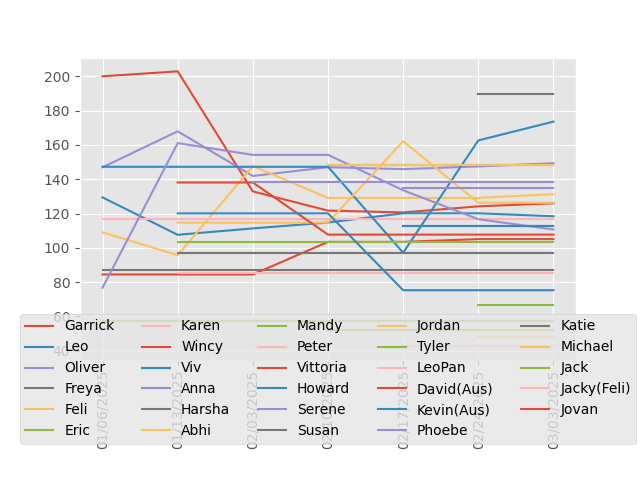
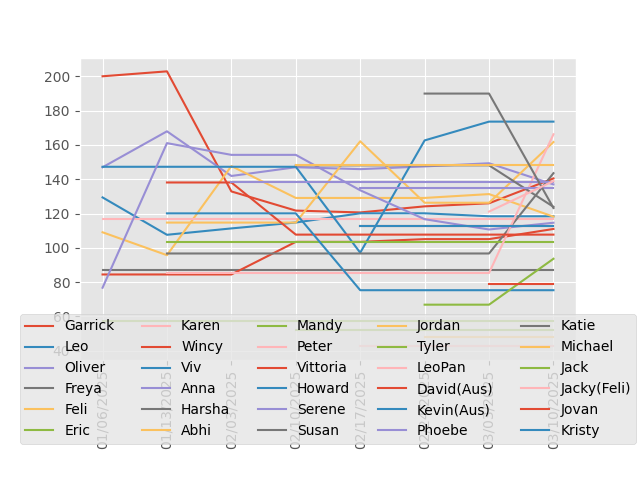
update rankings

diff --git a/README.md b/README.md
@@ -6,31 +6,32 @@
 
 | Player | ELO | Wins | Losses | Win % |
 | --- | --- | --- | --- | --- |
-| Katie | 190.00 | 3 | 0 | 100% |
 | Viv | 173.63 | 7 | 2 | 78% |
-| Oliver | 149.33 | 13 | 8 | 62% |
-| Susan | 148.12 | 1 | 0 | 100% |
+| Peter | 166.25 | 3 | 3 | 50% |
+| Abhi | 161.71 | 5 | 4 | 56% |
 | Jordan | 148.12 | 1 | 0 | 100% |
+| Harsha | 143.54 | 3 | 2 | 60% |
+| Garrick | 140.47 | 15 | 10 | 60% |
+| Jacky(Feli) | 138.90 | 3 | 1 | 75% |
 | Serene | 138.15 | 1 | 3 | 25% |
+| Oliver | 136.98 | 14 | 12 | 54% |
 | Phoebe | 135.05 | 1 | 1 | 50% |
-| Feli | 131.34 | 6 | 8 | 43% |
-| Abhi | 126.29 | 4 | 4 | 50% |
-| Garrick | 125.97 | 12 | 9 | 57% |
-| Jacky(Feli) | 121.11 | 1 | 0 | 100% |
+| Susan | 123.90 | 1 | 2 | 33% |
+| Katie | 123.22 | 4 | 4 | 50% |
 | Leo | 118.39 | 6 | 11 | 35% |
+| Feli | 118.18 | 6 | 13 | 32% |
 | Karen | 116.92 | 2 | 2 | 50% |
+| Anna | 114.62 | 7 | 9 | 44% |
 | David(Aus) | 112.63 | 1 | 2 | 33% |
 | Kevin(Aus) | 112.63 | 1 | 2 | 33% |
-| Anna | 110.67 | 5 | 7 | 42% |
+| Wincy | 110.99 | 4 | 6 | 40% |
 | Vittoria | 107.68 | 2 | 3 | 40% |
-| Wincy | 105.06 | 2 | 4 | 33% |
 | Mandy | 103.33 | 2 | 2 | 50% |
-| Harsha | 96.67 | 2 | 2 | 50% |
+| Kristy | 100.67 | 0 | 5 | 0% |
+| Jack | 93.59 | 2 | 5 | 29% |
 | Freya | 87.23 | 0 | 2 | 0% |
-| Peter | 85.29 | 1 | 2 | 33% |
 | Jovan | 78.89 | 0 | 1 | 0% |
 | Howard | 75.24 | 3 | 4 | 43% |
-| Jack | 66.80 | 1 | 2 | 33% |
 | Eric | 57.54 | 0 | 4 | 0% |
 | Tyler | 51.88 | 0 | 1 | 0% |
 | Michael | 48.07 | 0 | 3 | 0% |
@@ -66,24 +67,26 @@
 
 | Player | ELO | Wins | Losses | Win % |
 | --- | --- | --- | --- | --- |
-| Oliver | 233.72 | 7 | 0 | 100% |
+| Oliver | 208.45 | 7 | 1 | 88% |
+| Garrick | 181.11 | 6 | 2 | 75% |
 | Viv | 156.40 | 4 | 1 | 80% |
-| Garrick | 155.83 | 5 | 2 | 71% |
 | Karen | 143.48 | 2 | 0 | 100% |
-| Katie | 139.52 | 2 | 0 | 100% |
+| Wincy | 126.21 | 3 | 2 | 60% |
 | Vittoria | 124.87 | 1 | 0 | 100% |
 | Abhi | 111.28 | 2 | 2 | 50% |
-| Feli | 104.55 | 2 | 2 | 50% |
-| Jack | 104.49 | 1 | 1 | 50% |
+| Peter | 109.79 | 1 | 1 | 50% |
+| Katie | 107.21 | 2 | 1 | 67% |
 | Harsha | 102.83 | 1 | 1 | 50% |
-| Wincy | 97.19 | 2 | 2 | 50% |
+| Anna | 99.98 | 3 | 4 | 43% |
 | Mandy | 97.17 | 1 | 1 | 50% |
 | Howard | 82.35 | 1 | 2 | 33% |
 | Kevin(Aus) | 76.86 | 0 | 1 | 0% |
 | David(Aus) | 76.86 | 0 | 1 | 0% |
 | LeoPan | 76.86 | 0 | 1 | 0% |
-| Peter | 75.13 | 0 | 1 | 0% |
-| Anna | 73.49 | 2 | 4 | 33% |
+| Feli | 75.38 | 2 | 3 | 40% |
+| Jack | 72.18 | 1 | 2 | 33% |
+| Susan | 63.28 | 0 | 1 | 0% |
+| Kristy | 63.28 | 0 | 1 | 0% |
 | Michael | 60.48 | 0 | 2 | 0% |
 | Eric | 56.52 | 0 | 2 | 0% |
 | Leo | 55.14 | 1 | 3 | 25% |
@@ -93,22 +96,27 @@
 
 | Player | ELO | Wins | Losses | Win % |
 | --- | --- | --- | --- | --- |
+| Jacky(Feli) | 153.28 | 2 | 0 | 100% |
+| Abhi | 128.72 | 3 | 2 | 60% |
 | David(Aus) | 120.62 | 1 | 1 | 50% |
 | Kevin(Aus) | 120.62 | 1 | 1 | 50% |
 | Phoebe | 120.62 | 1 | 1 | 50% |
-| Anna | 119.92 | 2 | 1 | 67% |
+| Anna | 118.01 | 3 | 2 | 60% |
+| Harsha | 112.92 | 2 | 1 | 67% |
 | Mandy | 111.59 | 1 | 1 | 50% |
-| Peter | 111.59 | 1 | 1 | 50% |
 | Vittoria | 111.59 | 1 | 1 | 50% |
 | Leo | 106.74 | 2 | 2 | 50% |
-| Abhi | 106.74 | 2 | 2 | 50% |
+| Jack | 102.58 | 1 | 1 | 50% |
+| Wincy | 97.42 | 1 | 1 | 50% |
+| Katie | 97.42 | 1 | 1 | 50% |
+| Garrick | 95.02 | 3 | 3 | 50% |
 | Howard | 93.26 | 2 | 2 | 50% |
-| Garrick | 93.26 | 2 | 2 | 50% |
-| Harsha | 88.41 | 1 | 1 | 50% |
-| Feli | 88.41 | 1 | 1 | 50% |
+| Peter | 87.08 | 1 | 2 | 33% |
 | LeoPan | 79.38 | 1 | 1 | 50% |
 | Viv | 79.38 | 1 | 1 | 50% |
-| Oliver | 70.08 | 2 | 2 | 50% |
+| Oliver | 71.84 | 3 | 3 | 50% |
+| Kristy | 46.72 | 0 | 2 | 0% |
+| Feli | 41.48 | 1 | 3 | 25% |
 
 
 ### Monopoly Deal
@@ -127,11 +135,15 @@
 | Player | ELO | Wins | Losses | Win % |
 | --- | --- | --- | --- | --- |
 | Anna | 165.15 | 1 | 0 | 100% |
-| Oliver | 86.97 | 0 | 1 | 0% |
+| Peter | 163.51 | 1 | 0 | 100% |
 | Serene | 86.97 | 0 | 1 | 0% |
 | Garrick | 86.97 | 0 | 1 | 0% |
 | Leo | 86.97 | 0 | 1 | 0% |
-| Feli | 86.97 | 0 | 1 | 0% |
+| Kristy | 85.11 | 0 | 1 | 0% |
+| Katie | 85.11 | 0 | 1 | 0% |
+| Susan | 85.11 | 0 | 1 | 0% |
+| Oliver | 83.74 | 0 | 2 | 0% |
+| Feli | 83.74 | 0 | 2 | 0% |
 
 
 ### Avalon
@@ -156,9 +168,14 @@
 
 | Player | ELO | Wins | Losses | Win % |
 | --- | --- | --- | --- | --- |
-| Oliver | 165.15 | 1 | 0 | 100% |
-| Wincy | 86.97 | 0 | 1 | 0% |
+| Garrick | 124.90 | 1 | 1 | 50% |
+| Oliver | 113.59 | 1 | 1 | 50% |
+| Katie | 92.95 | 0 | 1 | 0% |
+| Jacky(Feli) | 92.95 | 0 | 1 | 0% |
+| Jack | 92.95 | 0 | 1 | 0% |
+| Anna | 92.95 | 0 | 1 | 0% |
+| Kristy | 92.95 | 0 | 1 | 0% |
+| Wincy | 89.41 | 0 | 2 | 0% |
+| Feli | 89.41 | 0 | 2 | 0% |
 | Leo | 86.97 | 0 | 1 | 0% |
 | Vittoria | 86.97 | 0 | 1 | 0% |
-| Garrick | 86.97 | 0 | 1 | 0% |
-| Feli | 86.97 | 0 | 1 | 0% |
